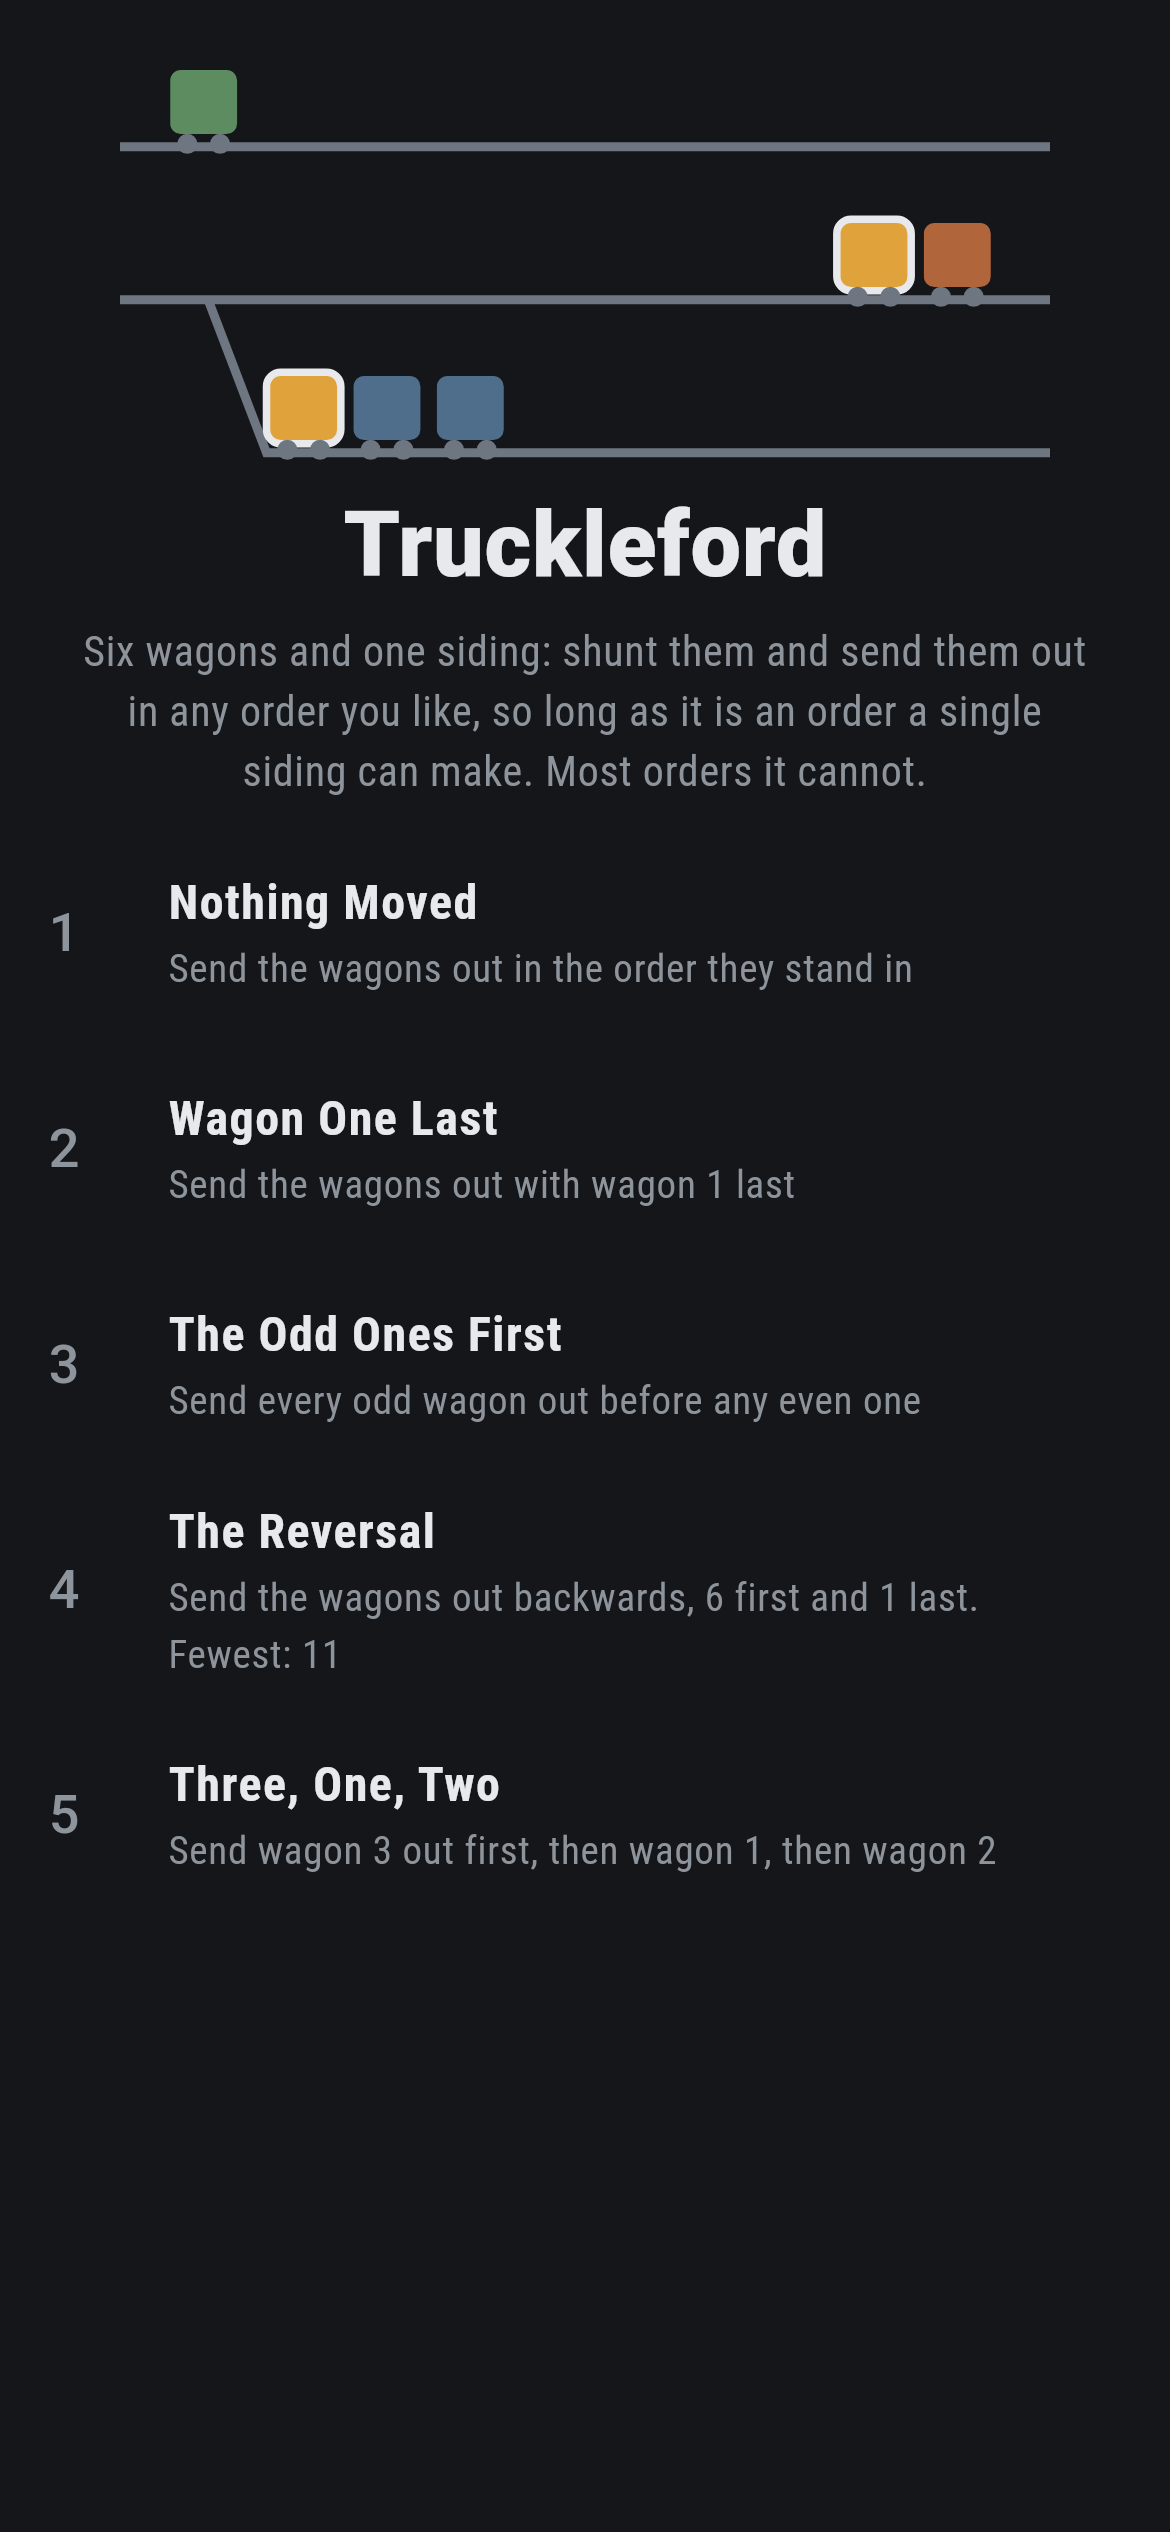
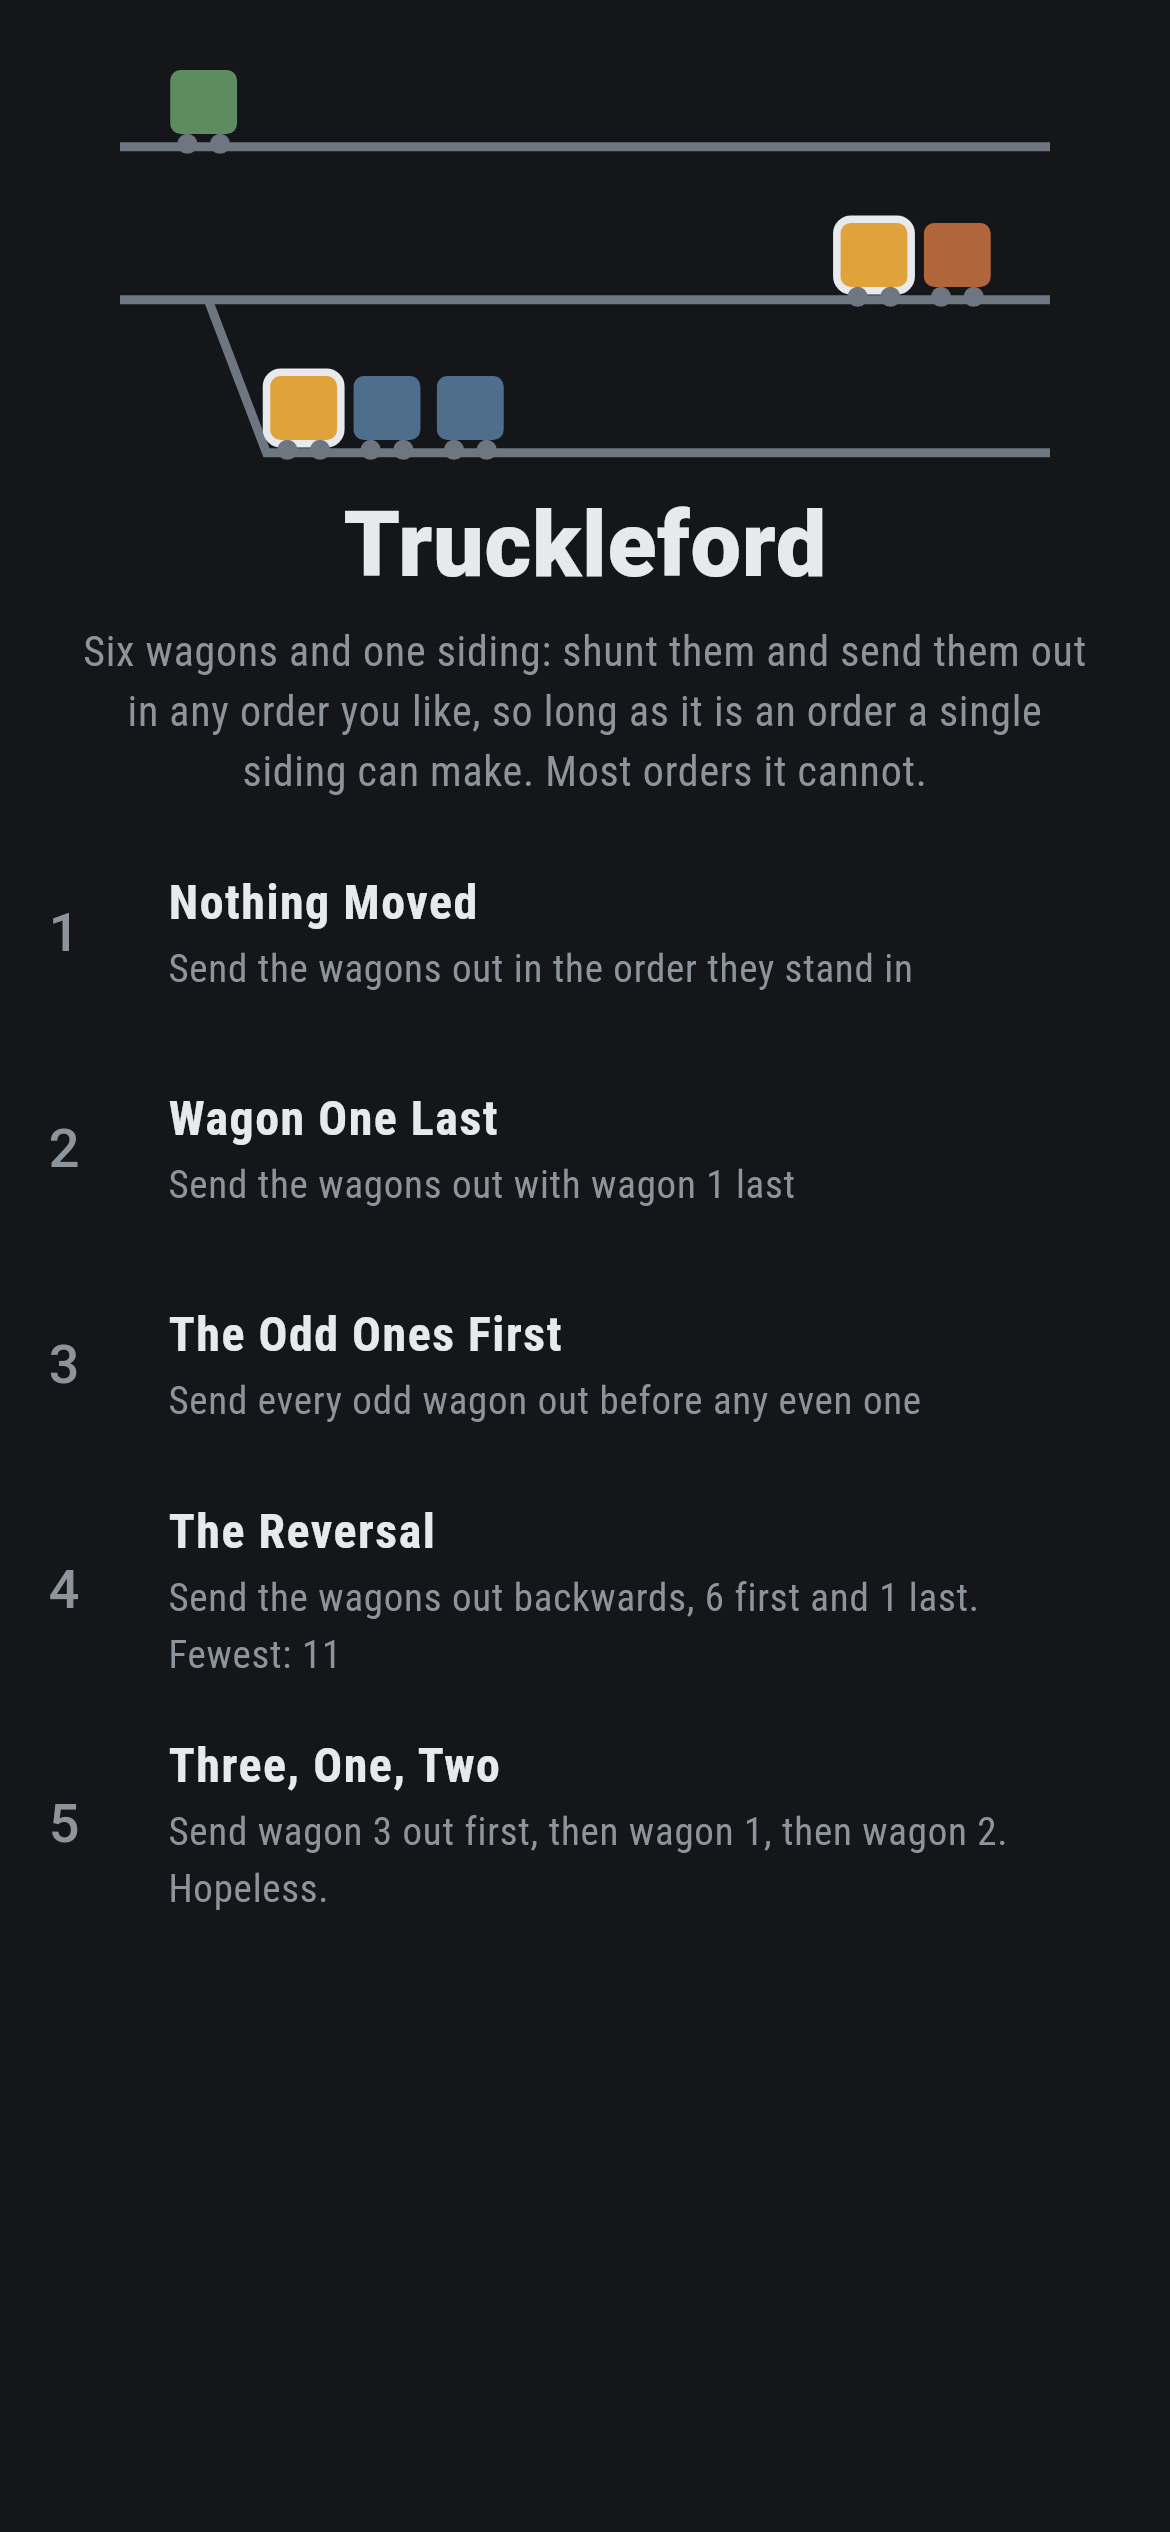
Truckleford: what the checkers found in the prose

Changed region(s): [[0.1231, 0.6864, 0.8615, 0.7488], [0.0308, 0.7176, 0.0615, 0.7488]]

diff --git a/Truckleford/lib/yard/play.dart b/Truckleford/lib/yard/play.dart
@@ -178,11 +178,12 @@ String whyWords(Play play) {
       'leaves, and later a smaller wagon c leaves, and later still a wagon b '
       'that lies between them. When a left, both b and c were still to come, '
       'and both were smaller than a, so both had already been shunted onto '
-      'the siding, b before c since they were shunted in order. That puts c '
-      'nearer the points than b, so c has to leave first, and it does. But b '
-      'is bigger than c and left after it, which the yard has just been shown '
-      'to forbid. So no out-train holds a wagon, then a smaller one, then one '
-      'in between: no train of the shape 3, 1, 2.\n\n'
+      'the siding, c before b since they were shunted in the order they '
+      'stand and c is the smaller number. That puts b nearer the points than '
+      'c, and only the wagon at the points can be sent, so b has to leave '
+      'before c. But the out-train has c leaving first, which the yard cannot '
+      'do. So no out-train holds a wagon, then a smaller one, then one in '
+      'between: no train of the shape 3, 1, 2.\n\n'
       'Every other order the siding can make. Of the 720 orders of six '
       'wagons, 132 are free of that shape and the yard makes all 132; the '
       'other 588 hold it somewhere and the yard makes none of them. Donald '

diff --git a/Truckleford/lib/yard/levels.dart b/Truckleford/lib/yard/levels.dart
@@ -19,8 +19,9 @@ class Levels {
       kind: 'last',
       ways: 42,
       aim: [2, 3, 4, 5, 6, 1],
-      note: '42 out-trains of the 132 leave wagon 1 until last, which is a '
-          'third of them, and 42 is the Catalan number for five wagons. That '
+      note: '42 out-trains of the 132 leave wagon 1 until last, a shade '
+          'under a third of them, and 42 is the Catalan number for five '
+          'wagons. That '
           'is no accident: shunt wagon 1 onto the siding at the start and the '
           'other five can then leave in any order that same siding can make.',
     ),

diff --git a/Truckleford/lib/ui/title_screen.dart b/Truckleford/lib/ui/title_screen.dart
@@ -73,7 +73,7 @@ class _TitleScreenState extends State<TitleScreen> {
                       ),
                       subtitle: Text(
                         '${level.task[0].toUpperCase()}${level.task.substring(1)}'
-                        '${fewest == null ? '' : '. Fewest: $fewest'}',
+                        '${!level.winnable ? '. Hopeless.' : fewest == null ? '' : '. Fewest: $fewest'}',
                         style: const TextStyle(
                             color: Palette.inkDim, fontSize: 13),
                       ),

diff --git a/Truckleford/README.md b/Truckleford/README.md
@@ -23,7 +23,7 @@ shunted, and the only out-train the yard makes in six. The Reversal is
 the dearest, eleven taps, five wagons on the siding and the sixth
 rolled past them. 42 of the 132 out-trains leave wagon 1 until last,
 which is the Catalan number for the five wagons that then go out ahead
-of it. Three of them send 1, 3 and 5 out before 2, 4 and 6, and all
+of it. Three of the 132 send 1, 3 and 5 out before 2, 4 and 6, and all
 three begin 1, 3, 5. Three, One, Two is labeled hopeless on its tile,
 and the card at the end of the ask says why on a finger.
 
@@ -32,10 +32,10 @@ and the card at the end of the ask says why on a finger.
 Say some wagon a leaves, and later a smaller wagon c leaves, and later
 still a wagon b lying between them. When a left, b and c were both
 still to come and both smaller than a, so both had already been shunted
-onto the siding, b before c, since wagons are shunted in the order they
-stand. That leaves c nearer the points than b, so c has to go out
-first, and it does. But b is bigger than c and went out after it, which
-is exactly what the yard has just been shown to forbid.
+onto the siding, c before b, since wagons are shunted in the order they
+stand and c is the smaller number. That leaves b nearer the points than
+c, and only the wagon at the points can be sent, so b has to go out
+before c. But the out-train has c going out first. It cannot.
 
 So no out-train holds a wagon, then a smaller one, then one in between:
 nothing of the shape 3, 1, 2. Every other order the siding can make.
@@ -89,7 +89,8 @@ every order of every train from one wagon to eight taken, 46,233 orders in all, 
 Screenshots are drawn by `test/showcase_test.dart` at real phone sizes
 with the app's own painter, then copied into `docs/` as they came out;
 every wagon in them was moved by working a lever, so nothing pictured
-is a yard the game could not reach. The logo and every launcher icon
+is a yard the game could not reach. The yard across the top of the sham
+shot is the mark rather than a run of levers. The logo and every launcher icon
 come out of `test/mark_test.dart` the same way: the mark is four taps
 into a run, wagons 1, 2 and 3 on the siding and wagon 4 rolled straight
 out.
